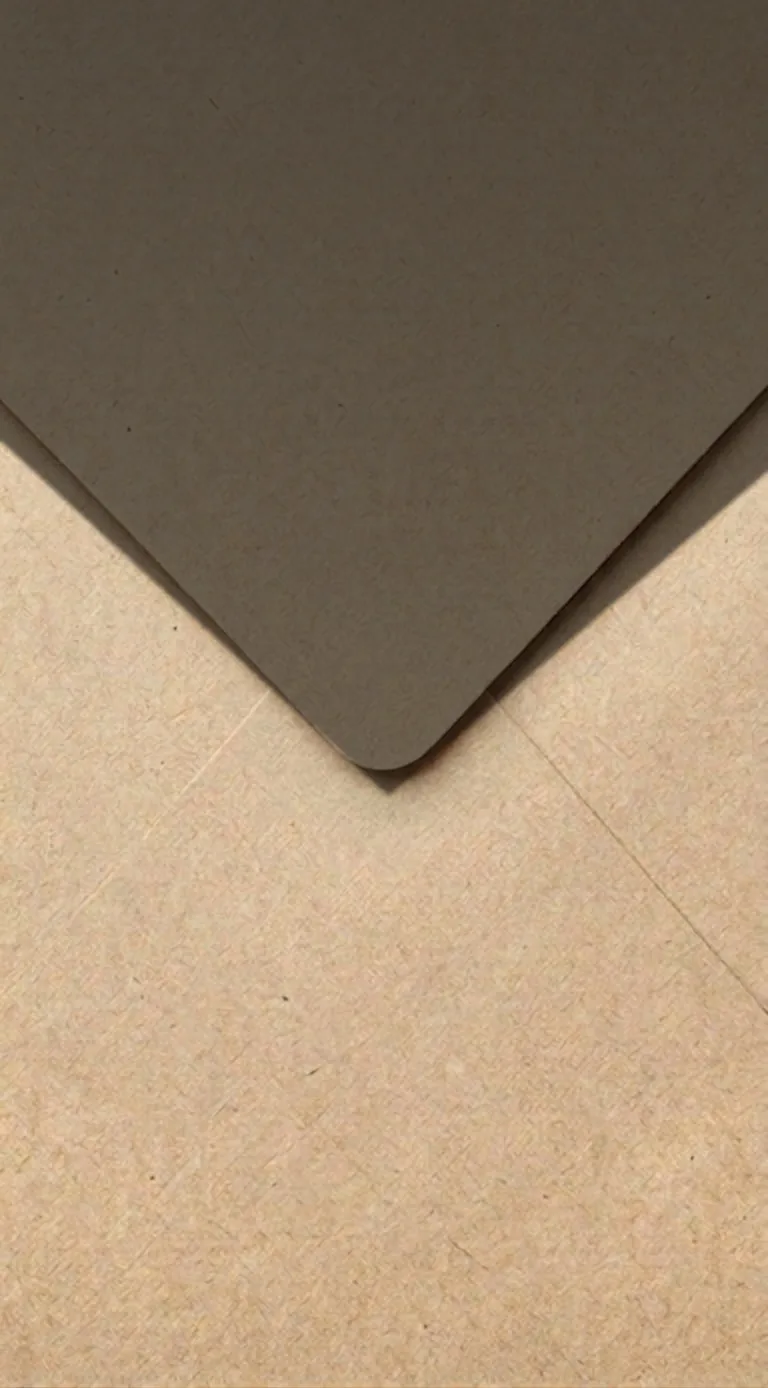
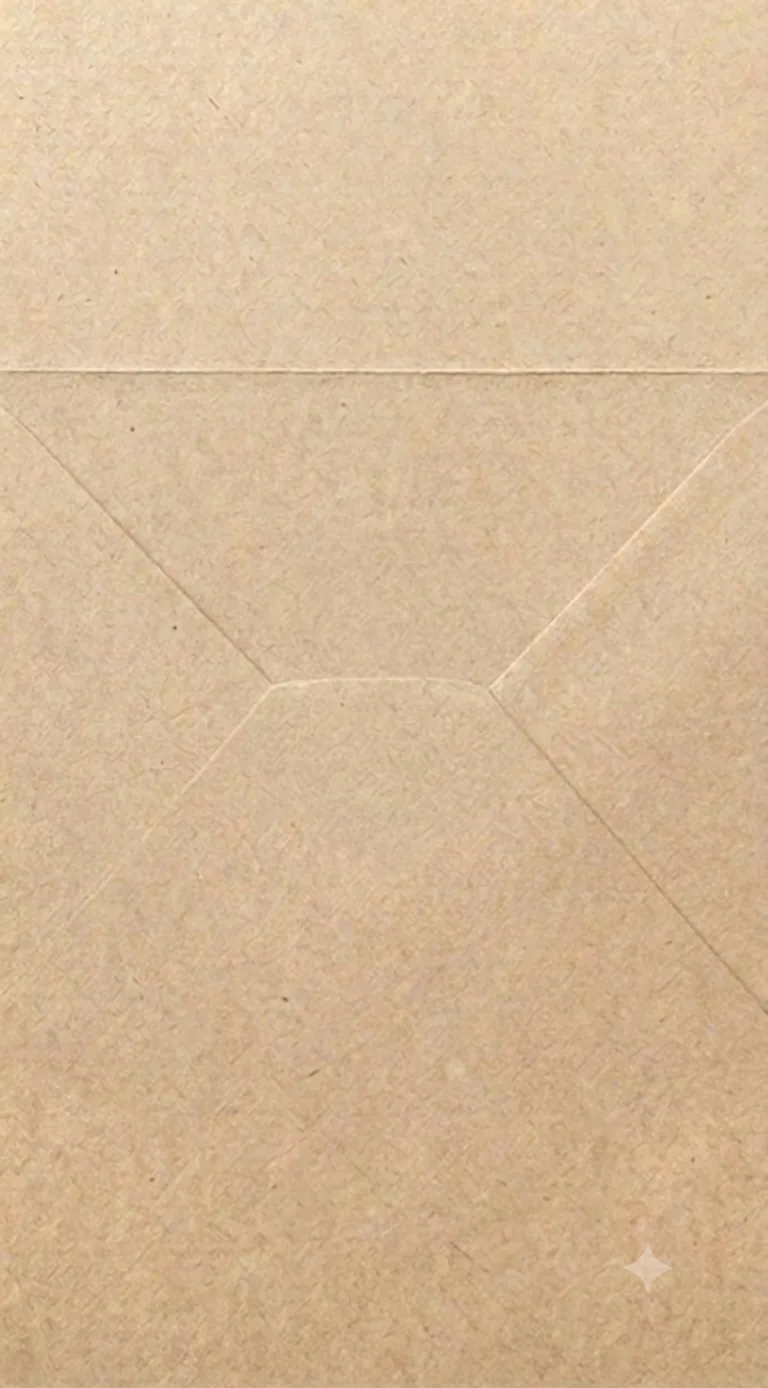
Use clean flap + body images with a slide-up open (no fake shadow)
Replaced the cut-from-one-photo envelope (with its baked dark inside that
looked fake) with the two clean images the client supplied:

- envelope-flap.webp: the standalone kraft flap, white background keyed to
  transparent so only the triangle shows.
- envelope-body.webp: the clean envelope back, used as-is (no darkening).

New interaction per request: the flap and the wax seal sit on top of the
body; tapping the seal slides the flap + seal straight up and off screen,
then the whole envelope fades away, revealing the invitation card (stars +
scroll cue). No 3D flip, no baked shadow. The seal stays pinned to the
flap tip via image-space percentages and rides up with it; cover-sizing
keeps everything aligned on phone and desktop.

Claude-Session: https://claude.ai/code/session_01AekXUfWR2AqzRwuQEMMTBZ

diff --git a/src/components/envelope/Envelope.tsx b/src/components/envelope/Envelope.tsx
@@ -11,11 +11,11 @@ type Phase = 'idle' | 'opening' | 'revealed'
 
 const ease = [0.22, 1, 0.36, 1] as const
 
-/** موضع طرف اللسان في صورة الظرف (نسبة) — حيث يُوضع الختم */
-const TIP_X = 50.5
-const TIP_Y = 57.3
-/** أبعاد صورة الظرف الأصلية */
-const IMG_RATIO = 768 / 1388 // العرض/الارتفاع
+/** موضع طرف اللسان في الصورة (نسبة) — حيث يوضع الختم */
+const TIP_X = 50
+const TIP_Y = 55.4
+/** أبعاد صور الظرف الأصلية */
+const IMG_RATIO = 768 / 1388
 
 export function Envelope() {
   const [phase, setPhase] = useState<Phase>('idle')
@@ -47,7 +47,7 @@ export function Envelope() {
     if (phase !== 'idle') return
     setTheme('light')
     setPhase('opening')
-    window.setTimeout(() => setPhase('revealed'), 1400)
+    window.setTimeout(() => setPhase('revealed'), 1200)
   }
 
   // صندوق يغطّي الشاشة مع الحفاظ على نسبة صورة الظرف
@@ -74,7 +74,7 @@ export function Envelope() {
         aria-hidden
       />
 
-      {/* ── مسرح الظرف (صورة حقيقية مقصوصة إلى جسم + لسان) ── */}
+      {/* ── مسرح الظرف (صورتان نظيفتان: جسم + لسان) ── */}
       <motion.div
         className="absolute left-1/2 top-1/2 z-10"
         style={{
@@ -84,107 +84,84 @@ export function Envelope() {
           rotateX,
           rotateY,
           transformPerspective: 1600,
-          transformStyle: 'preserve-3d',
         }}
         onPointerMove={handleTilt}
         onPointerLeave={resetTilt}
-        initial={false}
-        animate={{ opacity: revealed ? 0 : 1 }}
-        transition={{ duration: 0.7, ease }}
       >
-        {/* جسم الظرف (مع الداخل المعتم) */}
-        <img
+        {/* جسم الظرف — يتلاشى بعد انزلاق اللسان */}
+        <motion.img
           src={images.envelopeBody}
           alt=""
           className="absolute inset-0 h-full w-full select-none object-fill"
           draggable={false}
+          initial={false}
+          animate={{ opacity: revealed ? 0 : 1 }}
+          transition={{ duration: 0.6, ease, delay: revealed ? 0 : 0 }}
         />
 
-        {/* السطر التمهيدي على اللسان */}
-        <motion.p
-          className="absolute inset-x-0 top-[9%] z-[15] text-center font-body text-sm font-light tracking-wide text-[#4a3a28] sm:text-base"
-          initial={false}
-          animate={{ opacity: opened ? 0 : 0.85 }}
-          transition={{ duration: 0.5, ease }}
-        >
-          {ui.invitedEyebrow}
-        </motion.p>
-
-        {/* ── اللسان العلوي — قطعة منفصلة تُفتح ── */}
+        {/* ── مجموعة اللسان + الختم — تنزلق للأعلى ── */}
         <motion.div
           className="absolute inset-0 z-20"
-          style={{ transformOrigin: 'top center', transformStyle: 'preserve-3d' }}
           initial={false}
-          animate={{ rotateX: opened ? -172 : 0 }}
-          transition={{ duration: 0.95, ease, delay: opened ? 0.2 : 0 }}
+          animate={{ y: opened ? '-116%' : '0%' }}
+          transition={{ duration: 0.9, ease, delay: opened ? 0.1 : 0 }}
         >
-          {/* الوجه الخارجي */}
+          {/* اللسان */}
           <img
             src={images.envelopeFlap}
             alt=""
-            className="absolute inset-0 h-full w-full select-none object-fill [backface-visibility:hidden]"
-            style={{ filter: opened ? 'brightness(0.97)' : 'none' }}
+            className="absolute inset-0 h-full w-full select-none object-fill"
             draggable={false}
           />
-          {/* الوجه الداخلي (أغمق قليلاً) */}
-          <img
-            src={images.envelopeFlap}
-            alt=""
-            className="absolute inset-0 h-full w-full select-none object-fill [backface-visibility:hidden]"
-            style={{ transform: 'rotateX(180deg)', filter: 'brightness(0.72) contrast(1.02)' }}
-            draggable={false}
-            aria-hidden
-          />
-        </motion.div>
 
-        {/* ── الختم الشمعي على طرف اللسان — الزر ── */}
-        <div
-          className="absolute z-30"
-          style={{
-            left: `${TIP_X}%`,
-            top: `${TIP_Y}%`,
-            width: 'min(26vw, 150px)',
-            transform: 'translate(-50%, -50%)',
-          }}
-        >
-          <motion.button
-            type="button"
-            onClick={open}
-            disabled={opened}
-            aria-label={ui.openInvitation}
-            className={`relative block w-full rounded-full focus:outline-none focus-visible:ring-2 focus-visible:ring-gold focus-visible:ring-offset-4 focus-visible:ring-offset-transparent ${
-              opened ? 'pointer-events-none' : ''
-            }`}
-            initial={false}
-            animate={
-              opened
-                ? { opacity: 0, scale: 1.3, rotate: [0, -8, 7, 0] }
-                : { opacity: 1, scale: 1, rotate: 0 }
-            }
-            whileHover={opened ? undefined : { scale: 1.07 }}
-            whileTap={opened ? undefined : { scale: 0.92 }}
-            transition={{ duration: 0.5, ease }}
+          {/* السطر التمهيدي على اللسان */}
+          <p className="absolute inset-x-0 top-[11%] text-center font-body text-sm font-light tracking-wide text-[#4a3a28]/70 sm:text-base">
+            {ui.invitedEyebrow}
+          </p>
+
+          {/* الختم — الزر */}
+          <div
+            className="absolute z-30"
+            style={{
+              left: `${TIP_X}%`,
+              top: `${TIP_Y}%`,
+              width: 'min(26vw, 150px)',
+              transform: 'translate(-50%, -50%)',
+            }}
           >
-            {!opened && (
-              <motion.span
-                className="absolute -inset-3 rounded-full border border-[#5a4632]/40"
-                animate={{ scale: [1, 1.22], opacity: [0.6, 0] }}
-                transition={{ duration: 2.2, repeat: Infinity, ease: 'easeOut' }}
+            <motion.button
+              type="button"
+              onClick={open}
+              disabled={opened}
+              aria-label={ui.openInvitation}
+              className={`relative block w-full rounded-full focus:outline-none focus-visible:ring-2 focus-visible:ring-gold focus-visible:ring-offset-4 focus-visible:ring-offset-transparent ${
+                opened ? 'pointer-events-none' : ''
+              }`}
+              whileHover={opened ? undefined : { scale: 1.07 }}
+              whileTap={opened ? undefined : { scale: 0.92 }}
+              transition={{ duration: 0.3, ease }}
+            >
+              {!opened && (
+                <motion.span
+                  className="absolute -inset-3 rounded-full border border-[#5a4632]/40"
+                  animate={{ scale: [1, 1.22], opacity: [0.6, 0] }}
+                  transition={{ duration: 2.2, repeat: Infinity, ease: 'easeOut' }}
+                  aria-hidden
+                />
+              )}
+              <span
+                className="absolute -bottom-3 left-1/2 h-4 w-3/4 -translate-x-1/2 rounded-[50%] bg-black/40 blur-md"
                 aria-hidden
               />
-            )}
-            <span
-              className="absolute -bottom-3 left-1/2 h-4 w-3/4 -translate-x-1/2 rounded-[50%] bg-black/40 blur-md"
-              aria-hidden
-            />
-            <img
-              src={images.seal}
-              alt=""
-              className="relative block w-full select-none rounded-full drop-shadow-[0_18px_30px_rgba(0,0,0,0.55)]"
-              draggable={false}
-            />
-          </motion.button>
-        </div>
+              <img
+                src={images.seal}
+                alt=""
+                className="relative block w-full select-none rounded-full drop-shadow-[0_18px_30px_rgba(0,0,0,0.5)]"
+                draggable={false}
+              />
+            </motion.button>
+          </div>
+        </motion.div>
       </motion.div>
 
       {/* التلميح النابض أسفل الشاشة */}
@@ -206,7 +183,7 @@ export function Envelope() {
       {/* ذرات ضوء */}
       <Particles active={opened} />
 
-      {/* ── البطاقة تظهر بعد تلاشي الظرف ── */}
+      {/* ── البطاقة تظهر بعد اختفاء الظرف ── */}
       <div className="pointer-events-none absolute inset-0 z-40 flex items-center justify-center">
         <div className="relative">
           <InvitationCard show={revealed} />
